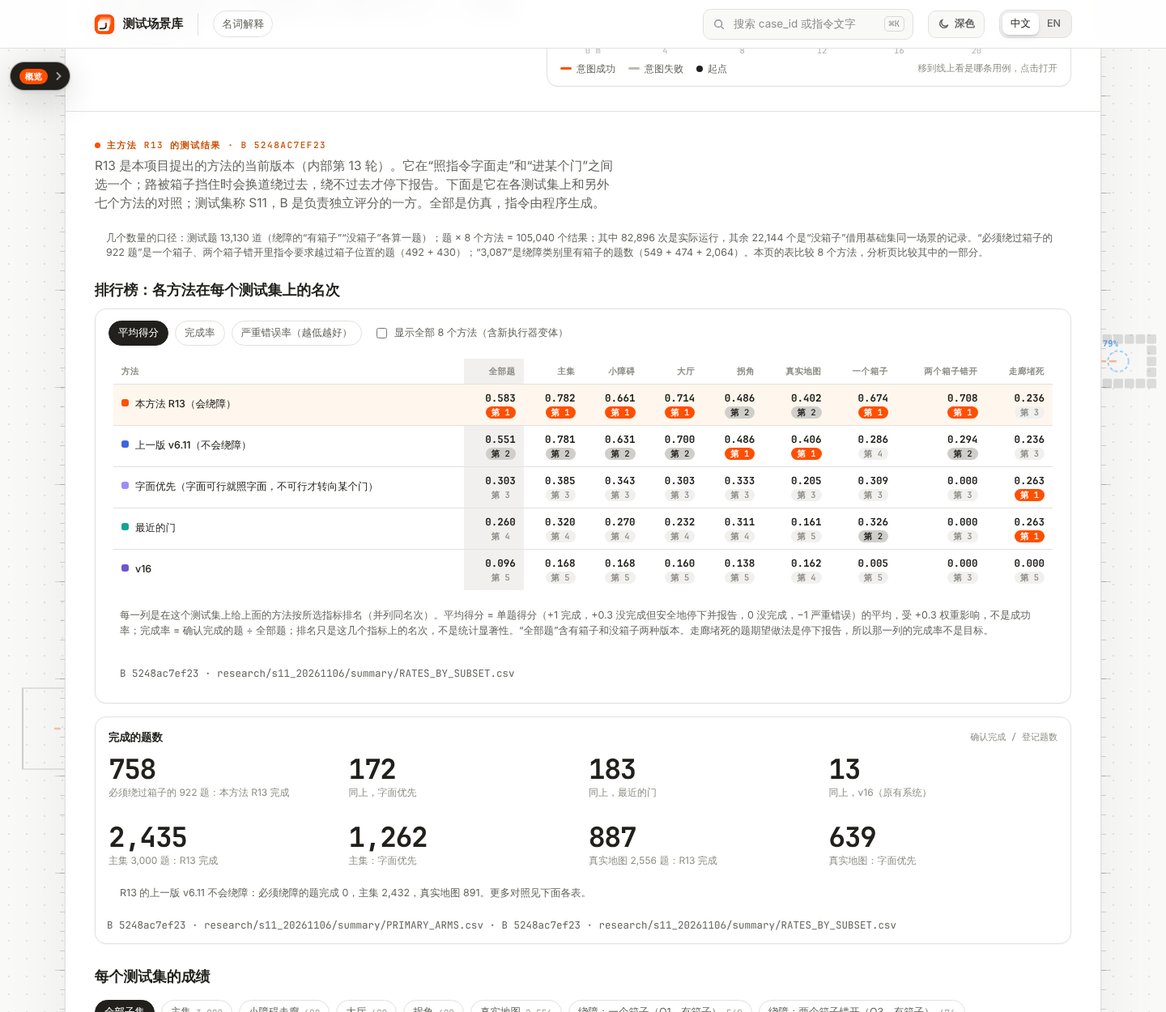
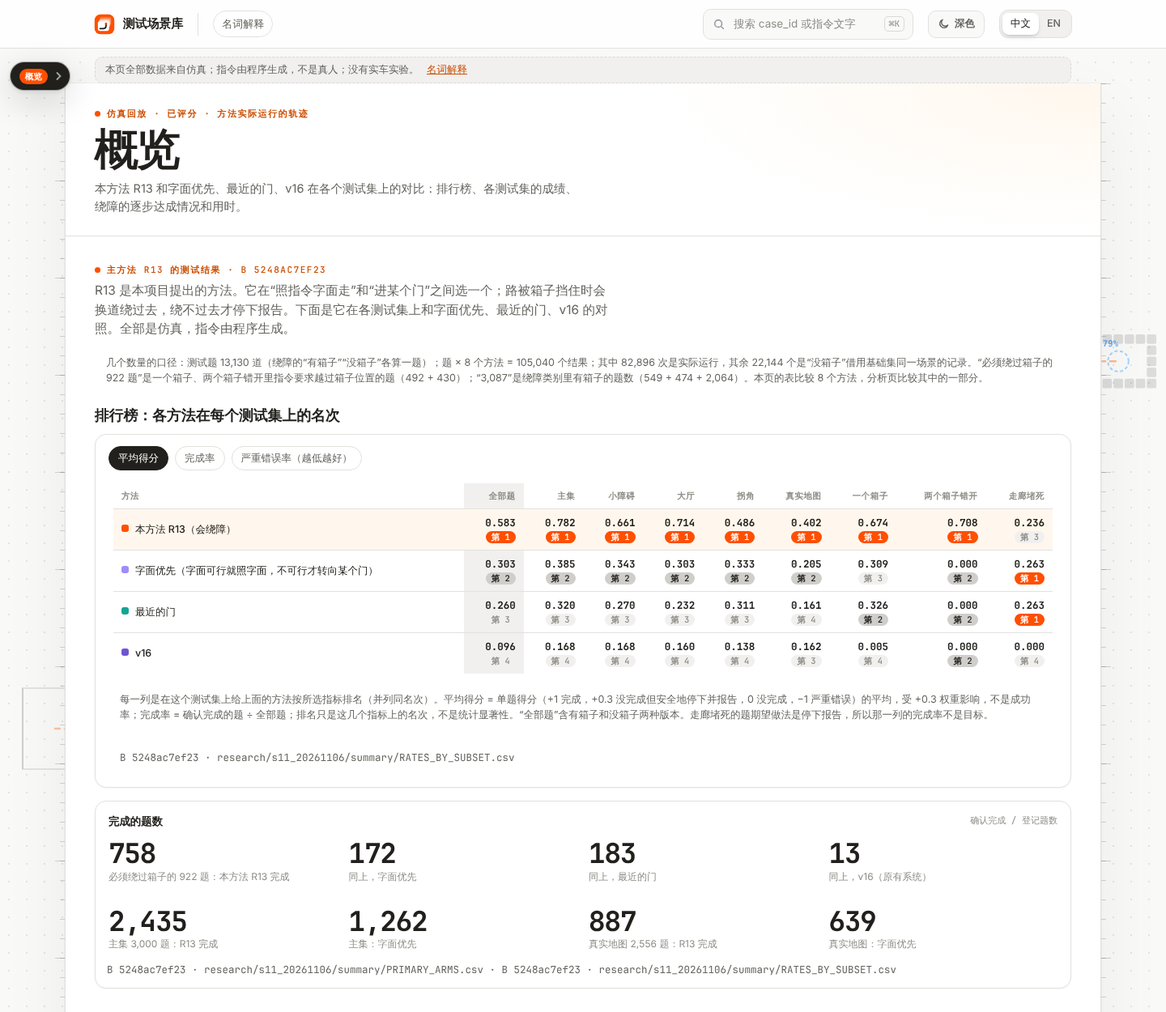
Update site: public view is the main method against the baselines only
Claude-Session: https://claude.ai/code/session_01WXp2ArzCVivbkPhHKuNYSE

diff --git a/assets/app.js b/assets/app.js
@@ -133,6 +133,8 @@ function rasterCanvas(name) { const R = rasters[name]; if (!R) return null; cons
   let i = 0; const a = R.rle; for (let k = 0; k < a.length; k += 2) { const cc = col[a[k]]; for (let n = 0; n < a[k + 1]; n++, i++) { const x = i % R.w, y = R.h - 1 - Math.floor(i / R.w), o = (y * R.w + x) * 4; im.data[o] = cc[0]; im.data[o + 1] = cc[1]; im.data[o + 2] = cc[2]; im.data[o + 3] = 255; } }
   g.putImageData(im, 0, 0); return rCanvas[key] = c; }
 /* sets: web set key -> case filter; sub-filters inside a set */
+const DEV = new URLSearchParams(location.search).get('dev') === '1';   /* ?dev=1 shows the earlier versions and test sets (internal record) */
+const PUB_ARMS = ['method_R13', 'literal_if_feasible', 'nearest', 'v16'];
 const NEW_SETS = ['Y1', 'Y2', 'Y3', 'Y4'];
 const S10_SETS = ['X1', 'X2', 'X3', 'X4'];
 const SCORED_X = [...NEW_SETS, ...S10_SETS];
@@ -160,7 +162,7 @@ function setOfCase(e) { return SETS.find(s => inSet(e, s)); }
 const ARM_GROUPS = [['grpBase', ['v16', 'fixed', 'goal_point', 'nearest', 'snap']], ['grpMe', ['method', 'no_keep', 'no_speed', 'always_slow', 'always_slow_fixed']], ['grpV2', ['method_v2', 'method_v2_k', 'method_v3', 'method_v4']], ['grpV4', ['v4_no_speed', 'v4_no_keep', 'v4_only_nownext', 'v4_only_correction']], ['grpRef', ['oracle', 'oracle_belief', 'oracle_due']]];
 const armsCache = {};
 function armsOf(set) { if (armsCache[set]) return armsCache[set]; const on = new Set(); IDX.forEach(e => { if (inSet(e, set)) for (let i = 0; i < ARMS.length; i++) if ((e.o[i] || ' ') !== ' ') on.add(i); });
-  if (NEW_SETS.includes(set) && window.SL_S11) return armsCache[set] = window.SL_S11.arms.filter(a => on.has(ARMS.indexOf(a)));
+  if (NEW_SETS.includes(set) && window.SL_S11) return armsCache[set] = window.SL_S11.arms.filter(a => on.has(ARMS.indexOf(a)) && (DEV || PUB_ARMS.includes(a)));
   return armsCache[set] = ARMS.filter((a, i) => on.has(i)); }
 function dsLabel(ds) { if (/^V4[OR]:/.test(ds)) { const [h1, b1] = ds.split(':'); return `${t('setS')[h1]} · ${h1 === 'V4O' ? t('fam')[b1] : V4R_SUB[L][b1]}`; } const mp = {'S1″': t('setS').S1PP, 'S2″': t('setS').S2PP}; { const [h0, b0] = ds.split(':'); if (mp[h0]) return b0 ? `${mp[h0]} · ${subLabel(b0)}` : mp[h0]; } const m = {holdout: t('dsHold'), holdout_original: t('dsHO'), holdout_supplement: t('dsHS'), mismatch: t('dsMM'), night_primary: t('dsNP'), night_D_exposed: t('dsND')};
   if (ds === 'holdout') return t('holdout'); if (m[ds]) return `${t('holdout')} · ${m[ds]}`; if (ds.startsWith('S4_')) return `S4 · ${t('fam')[ds.slice(3)]}`; const [a, b] = ds.split(':'); return b ? `${a} · ${subLabel(b)}` : a; }
@@ -257,7 +259,7 @@ function reticle(g, X, Y, e, ans, f, W, H) { const b = targetBox(e, ans); if (!b
 /* ---------------- shell ---------------- */
 const $ = (s, r = document) => r.querySelector(s);
 const esc = s => String(s).replace(/[&<>"]/g, c => ({'&': '&amp;', '<': '&lt;', '>': '&gt;', '"': '&quot;'}[c]));
-const state = {set: SETS.includes(store.get('set4', 'Y4')) ? store.get('set4', 'Y4') : 'Y4', sub: 'all', kind: 'all', arm: 'method_R13', out: 'all', q: '', tr: false, shown: 48, view: 'overlay', on: {method: 1, method_v4: 1, goal_point: 1, nearest: 1, v16: 1}, answer: false, cand: true, ovDs: 'holdout', dot: ['01', 'method']};
+const state = {set: SETS.includes(store.get('set4', 'Y4')) && (DEV || NEW_SETS.includes(store.get('set4', 'Y4'))) ? store.get('set4', 'Y4') : 'Y4', sub: 'all', kind: 'all', arm: 'method_R13', out: 'all', q: '', tr: false, shown: 48, view: 'overlay', on: {method: 1, method_v4: 1, goal_point: 1, nearest: 1, v16: 1}, answer: false, cand: true, ovDs: 'holdout', dot: ['01', 'method']};
 const nSet = (set, f = () => true) => IDX.filter(e => inSet(e, set) && f(e)).length;
 function setsDef() { const M = META.manifest.counts || {}; const fams = ['F0', 'F1', 'F2', 'F3', 'F4', 'F5', 'F6'];
   const xn = ks => ks.reduce((a, k) => a + ((window.SL_S10 && window.SL_S10.datasets[k] || {}).n || 0), 0);
@@ -357,9 +359,10 @@ function render() { cleanup.forEach(f => f()); cleanup = []; const r = route(); 
       <button class="dk-x" id="dkx" title="${L === 'zh' ? '收起（S）' : 'Collapse (S)'}" aria-label="collapse"><svg width="14" height="14" viewBox="0 0 14 14" fill="none" stroke="currentColor" stroke-width="1.8" stroke-linecap="round"><path d="M8.5 3 4.5 7l4 4"/></svg></button>
       <span class="dk-h" aria-hidden="true"><svg width="14" height="14" viewBox="0 0 14 14" fill="currentColor"><rect x="1" y="1" width="5" height="5" rx="1.4"/><rect x="8" y="1" width="5" height="5" rx="1.4"/><rect x="1" y="8" width="5" height="5" rx="1.4"/><rect x="8" y="8" width="5" height="5" rx="1.4" opacity=".45"/></svg><span>${L === 'zh' ? '集合' : 'Sets'}</span><em>${cur ? (cur === 'Y1' ? (L === 'zh' ? '合成' : 'SYN') : cur === 'Y2' ? (L === 'zh' ? '真实' : 'REAL') : cur === 'Y3' ? (L === 'zh' ? '场景' : 'SCN') : cur === 'Y4' ? (L === 'zh' ? '绕障' : 'DETOUR') : cur === 'X1' ? (L === 'zh' ? '合成' : 'SYN') : cur === 'X2' ? (L === 'zh' ? '真实' : 'REAL') : cur === 'X3' ? (L === 'zh' ? '障碍' : 'OBS') : cur === 'X4' ? (L === 'zh' ? '偏移' : 'SHIFT') : cur === 'HOLD' ? 'H' : cur === 'DEV' ? 'D' : cur === 'S1PP' ? (L === 'zh' ? '合成' : 'SYN') : cur === 'S2PP' ? (L === 'zh' ? '真实' : 'REAL') : cur === 'V4O' ? (L === 'zh' ? '障碍' : 'OBS') : cur === 'V4R' ? (L === 'zh' ? '说话' : 'SPCH') : PRIME[cur] || cur) : r.name === 'analysis' ? (L === 'zh' ? '分析' : 'AN') : (L === 'zh' ? '概览' : 'OV')}</em></span>
       <span class="dk-up" aria-hidden="true"><svg width="14" height="14" viewBox="0 0 14 14" fill="none" stroke="currentColor" stroke-width="1.8" stroke-linecap="round"><path d="M5.5 3 9.5 7l-4 4"/></svg></span>`;
+    if (!DEV) { d.querySelectorAll('.oldsel,.dsep').forEach(x => x.remove()); d.querySelectorAll('a[href="#analysis"]').forEach(x => x.remove()); }
     d.querySelectorAll('[data-set]').forEach(b => b.onclick = ev => { ev.stopPropagation(); if (d.classList.contains('fold')) { dock(false, true); return; } setSet(b.dataset.set); });
     $('#dkx').onclick = ev => { ev.stopPropagation(); dock(true, true); };
-    const os = $('#oldSets'); os.onclick = ev => ev.stopPropagation(); os.onchange = ev => { if (ev.target.value) setSet(ev.target.value); };
+    const os = $('#oldSets'); if (os) { os.onclick = ev => ev.stopPropagation(); os.onchange = ev => { if (ev.target.value) setSet(ev.target.value); }; }
     d.onclick = ev => { if (d.classList.contains('fold')) dock(false, true); };
     d.onwheel = ev => { if (Math.abs(ev.deltaX) > Math.abs(ev.deltaY) && Math.abs(ev.deltaX) > 6) { ev.preventDefault(); const now = Date.now(); if (now - (dockState.w || 0) < 400) return; dockState.w = now; dock(ev.deltaX < 0, true); } };
     d.classList.toggle('fold', dockState.mini); }
@@ -396,8 +399,10 @@ function renderGlossary() {
    ['分析页用到的缩写', 'Terms on the Analysis page', 'S1–S6 是更早各轮的测试集（见分析页各章标题）；oracle = 事先知道答案的参考，不是可用的方法，只用来对照上限；门等权 = 每扇门权重相同（先算每扇门的成功率再平均），所以不等于成功数 ÷ 总数；承诺 = 方法已选定要去哪扇门；消融 = 关掉方法的某个部件看结果变化；c = 指令模拟器里距离误差的比例；分析页是开发过程的详细记录，内部缩写较多，建议先看首页和概览。', 'S1–S6 are the test sets of earlier rounds (see the chapter titles on the Analysis page); oracle = a reference that knows the answer in advance, not a usable method, only an upper bound for comparison; door-equal = every door has the same weight (per-door rates are averaged), so it differs from successes ÷ total; commitment = the method has picked which door to go to; ablation = switching one part of the method off to see the change; c = the relative distance error in the command simulator; the Analysis page is a detailed development record with many internal abbreviations, so start with the home page and the Overview.'],
    ['仿真', 'Simulation', '全部结果来自仿真（CPU 闭环，部分为 Isaac 仿真），不是实车；指令由程序生成，回答也由程序模拟，不是真人。', 'All results come from simulation (CPU closed loop, some in Isaac simulation), not a physical robot; commands are program-generated and answers are simulated, not from people.'],
   ];
+  const HIDE = /^(上一版|新执行器|登记检验|测试集 S10|试跑集|分析页用到的缩写)/;
+  const Gs = DEV ? G : G.filter(g => !HIDE.test(g[0])).map(g => g[0] === 'R13' ? ['R13', 'R13', '本项目提出的方法。在“照指令字面走”和“进某个门”之间选一个；路被箱子挡住时会换道绕过去，绕不过去才停下报告。', 'The method proposed in this project. It chooses between following the words of the instruction and entering an opening; when a box blocks the way it changes lane around it, and only when it cannot get around does it stop and report.'] : g);
   $('#page').innerHTML = `<section class="shead"><div class="sh-l"><div class="eyebrow"><span class="dot"></span>${L === 'zh' ? '读这个网站先看这里' : 'Read this first'}</div><h1 class="h">${L === 'zh' ? '名词解释' : 'Glossary'}</h1><p class="lede">${L === 'zh' ? '页面里用到的内部叫法和数字口径。' : 'Internal names and number conventions used on the pages.'}</p></div></section>
-   <div class="glo">${G.map(g => `<div class="gi"><dt>${esc(L === 'zh' ? g[0] : g[1])}</dt><dd>${esc(L === 'zh' ? g[2] : g[3])}</dd></div>`).join('')}</div>`;
+   <div class="glo">${Gs.map(g => `<div class="gi"><dt>${esc(L === 'zh' ? g[0] : g[1])}</dt><dd>${esc(L === 'zh' ? g[2] : g[3])}</dd></div>`).join('')}</div>`;
 }
 
 /* ---------------- list ---------------- */
@@ -532,7 +537,7 @@ function badgeHTML(e) { const ch = e.o[ARMS.indexOf(state.arm)] || ' ';
   if (e.s10) { const b = xmod(e).badge(e._c.a[state.arm]); return `<span class="ob sc10" style="background:${b.c};color:${b.fg}" title="${t('arm')[state.arm]}">${ch === ' ' ? t('noRun') : b.t}</span>`; }
   const [c, l] = ch === '1' ? ['ok', '✓ ' + t('succ')] : ch === '0' ? ['bad', '✗ ' + t('fail')] : ch === '?' ? ['un', '? ' + t('unknown')] : ch === '-' ? ['un', t('na')] : ['no', t('noRun')];
   return `<span class="ob ${c}" title="${t('arm')[state.arm]}">${l}</span>`; }
-function stripHTML(e) { if (e.s10) { const S = xmod(e); return ARMS.map((a, i) => { const q = e._c.a[a]; if (!q) return ''; const b = S.badge(q); return `<span class="${a === state.arm ? 'sel' : ''}" style="--c:${ARMC[a]};background:${b.c};border-color:${b.c}" title="${t('arm')[a]}: ${b.t}"></span>`; }).join(''); } const shown = armsOf(setOfCase(e)); return ARMS.map((a, i) => { if (!shown.includes(a)) return ''; const ch = e.o[i] || ' '; const cls = ch === '1' ? 'ok' : ch === '0' ? '' : ch === '-' ? 'na' : ch === '?' ? 'un' : 'no'; const lab = ch === '1' ? t('succ') : ch === '0' ? t('fail') : ch === '-' ? t('na') : ch === '?' ? t('unknown') : t('noRun');
+function stripHTML(e) { if (e.s10) { const S = xmod(e); return ARMS.map((a, i) => { const q = e._c.a[a]; if (!q || (e.s11 && !DEV && !PUB_ARMS.includes(a))) return ''; const b = S.badge(q); return `<span class="${a === state.arm ? 'sel' : ''}" style="--c:${ARMC[a]};background:${b.c};border-color:${b.c}" title="${t('arm')[a]}: ${b.t}"></span>`; }).join(''); } const shown = armsOf(setOfCase(e)); return ARMS.map((a, i) => { if (!shown.includes(a)) return ''; const ch = e.o[i] || ' '; const cls = ch === '1' ? 'ok' : ch === '0' ? '' : ch === '-' ? 'na' : ch === '?' ? 'un' : 'no'; const lab = ch === '1' ? t('succ') : ch === '0' ? t('fail') : ch === '-' ? t('na') : ch === '?' ? t('unknown') : t('noRun');
   return `<span class="${cls} ${a === state.arm ? 'sel' : ''}" style="--c:${ARMC[a]}" title="${t('arm')[a]}: ${lab}"></span>`; }).join(''); }
 function caseTag(e) { if (e.s10) return e.g ? X_SUB[L][e.g] : ''; return e.d === 'HO' ? t('orig') : e.d === 'HS' ? t('supp') : e.d === 'S1D' ? t('devS1') : e.d === 'S4D' ? `${t('devS4')} ${e.f}` : e.d === 'S2' ? `S2 ${t('bd')[e.bd]}` : e.d === 'S3' ? `S3 c=${e.c}` : e.d === 'S4' ? `S4 ${e.f}` : e.d === 'V4O' ? t('fam')[e.f] : e.d === 'V4R' ? V4R_SUB[L][e.g] : MAIN_SETS.includes(e.d) ? (e.bd ? t('bd')[e.bd] : '') : PRIME[e.d] ? PRIME[e.d] + (e.bd ? ' ' + t('bd')[e.bd] : '') : e.d; }
 function cardHTML(e) {
@@ -660,7 +665,7 @@ function mountCase(e, det) {
   // side panel
   const yn = (v, na) => na ? `<span class="v u">—</span>` : v === true ? '<span class="v y">✓</span>' : v === false ? '<span class="v n">✗</span>' : '<span class="v u">?</span>';
   const have = armsOf(setOfCase(e)).filter(a => det.arms[a]);
-  const L_VS = ' · '; const presets = e.s11 ? [[t('arm').method_R13 + L_VS + t('arm').literal_if_feasible + ' + ' + t('arm').nearest, ['method_R13', 'literal_if_feasible', 'nearest']], [`${t('arm').method_R13} · ${t('arm').v16}`, ['method_R13', 'v16']], [`${t('arm').method_R13} · ${t('arm').method_v6}`, ['method_R13', 'method_v6']], [t('preAll'), arms], [t('preNone'), []]] : e.s10 ? [[`${t('arm').method_v6} · ${t('arm').literal_if_feasible}`, ['method_v6', 'literal_if_feasible']], [`${t('arm').method_v6} · ${t('arm').method_v4}`, ['method_v6', 'method_v4']], [`${t('arm').method_v6} · ${t('arm').nearest}`, ['method_v6', 'nearest']], [t('preAll'), arms], [t('preNone'), []]] : [[`${t('arm').method} · ${t('arm').nearest}`, ['method', 'nearest']], [`${t('arm').method} · v16`, ['method', 'v16']], [`${t('arm').method} · v2`, ['method', 'method_v2']], [`${t('arm').method} · ${t('arm').oracle_belief}`, ['method', 'oracle_belief']], [t('preAll'), have], [t('preNone'), []]];
+  const L_VS = ' · '; const presets = e.s11 ? [[t('arm').method_R13 + L_VS + t('arm').literal_if_feasible + ' + ' + t('arm').nearest, ['method_R13', 'literal_if_feasible', 'nearest']], [`${t('arm').method_R13} · ${t('arm').v16}`, ['method_R13', 'v16']], ...(DEV ? [[`${t('arm').method_R13} · ${t('arm').method_v6}`, ['method_R13', 'method_v6']]] : []), [t('preAll'), arms], [t('preNone'), []]] : e.s10 ? [[`${t('arm').method_v6} · ${t('arm').literal_if_feasible}`, ['method_v6', 'literal_if_feasible']], [`${t('arm').method_v6} · ${t('arm').method_v4}`, ['method_v6', 'method_v4']], [`${t('arm').method_v6} · ${t('arm').nearest}`, ['method_v6', 'nearest']], [t('preAll'), arms], [t('preNone'), []]] : [[`${t('arm').method} · ${t('arm').nearest}`, ['method', 'nearest']], [`${t('arm').method} · v16`, ['method', 'v16']], [`${t('arm').method} · v2`, ['method', 'method_v2']], [`${t('arm').method} · ${t('arm').oracle_belief}`, ['method', 'oracle_belief']], [t('preAll'), have], [t('preNone'), []]];
   const MA = mainArm(setOfCase(e)), cds = caseDs(e), rr = cds ? ARMS.map(a => [a, rate(cds, e.k, a)]).filter(x => x[1]) : [];
   if (e.s10) $('#side').innerHTML = xmod(e).side(e, det, presets); else $('#side').innerHTML = `<section class="card"><div class="card-h"><span class="tile">≡</span><h3>${t('arms')}</h3><span class="more"></span></div>
    <div class="armh"><span></span><span>${t('arms')}</span><span>${t('hI')}</span><span>${t('hL')}</span><span>${t('hC')}</span><span>${t('hT')}</span></div>
@@ -689,6 +694,10 @@ function renderOverview() {
   const countRows = [['HO', e => e.d === 'HO'], ['HS', e => e.d === 'HS'], ['S1', e => e.d === 'S1'], ['S2 · ' + t('bd').hospital, e => e.d === 'S2' && e.bd === 'hospital'], ['S2 · ' + t('bd').office, e => e.d === 'S2' && e.bd === 'office'],
     ...subOpts('S3').map(c => ['S3 · ' + c, e => e.d === 'S3' && 'c=' + e.c === c]), ...subOpts('S4').map(f => ['S4 · ' + t('fam')[f], e => e.d === 'S4' && e.f === f]), ['S1′', e => e.d === 'S1P'], ['S2′ · ' + t('bd').hospital, e => e.d === 'S2P' && e.bd === 'hospital'], ['S2′ · ' + t('bd').office, e => e.d === 'S2P' && e.bd === 'office'], ['S1″', e => e.d === 'S1PP'], ['S2″ · ' + t('bd').hospital, e => e.d === 'S2PP' && e.bd === 'hospital'], ['S2″ · ' + t('bd').office, e => e.d === 'S2PP' && e.bd === 'office'], ['S1D', e => e.d === 'S1D'], ['S4D', e => e.d === 'S4D']]
     .map(([l, f]) => [l === 'HO' ? `${t('holdout')} · ${t('orig')}` : l === 'HS' ? `${t('holdout')} · ${t('supp')}` : l === 'S1D' ? t('devS1') : l === 'S4D' ? t('devS4') : l, IDX.filter(f)]);
+  if (!DEV && window.SLX && window.SLX.s11) {
+    $('#page').innerHTML = `<section class="shead"><div class="sh-l"><div class="eyebrow"><span class="dot"></span>${t('eyebrowList')}</div><h1 class="h">${t('ovTitle')}</h1><p class="lede">${L === 'zh' ? '本方法 R13 和字面优先、最近的门、v16 在各个测试集上的对比：排行榜、各测试集的成绩、绕障的逐步达成情况和用时。' : 'The main method R13 compared with literal-first, nearest opening and v16 on every test set: leaderboard, scores per test set, step-by-step detour results and time.'}</p></div></section>${window.SLX.s11.dataHTML()}`;
+    window.SLX.s11.bindData($('#page')); return;
+  }
   const kinds = KINDS.filter(k => IDX.some(e => e.k === k));
   $('#page').innerHTML = `<section class="hero"><div><div class="eyebrow"><span class="dot"></span>${t('eyebrowList')}</div><h1 class="h">${t('ovTitle')}</h1>
    <div class="lede" style="font-size:19px;color:var(--ink);margin-top:16px;line-height:1.7">${t('heroA')(kinds.length)} · ${t('heroB')(ARMS.length)} · ${fmt(IDX.length)} ${t('stCases')}</div><p class="lede">${t('ovLede')}</p></div>
@@ -794,7 +803,7 @@ function s10Text(c) { const u = c.u, side = u.direction === 'left' ? (L === 'zh'
     case 'correction': return L === 'zh' ? `${u.initial_description === 'this opening' ? '先指这个开口' : u.initial_description}，然后说：${u.correction_text}` : `First ${u.initial_description}, then: ${u.correction_text}`;
     case 'stop_at_opening': return L === 'zh' ? `在${side}侧第${u.ordinal}个开口停车` : `Stop at opening no. ${u.ordinal} on the ${side}`;
     default: return u.reference; } }
-window.SLX = {IDX, byId, ARMS, state, raster, rasterReady: n => !!rasters[n], resetArms: () => { for (const k in armsCache) delete armsCache[k]; }, $, esc, fmt, t, store, get ARMC() { return ARMC; }, drawMap, topbar, trajDecode, s10Text, armName: a => (T[L].arm || {})[a] || a, rerender: () => render()};
+window.SLX = {dev: DEV, pubArms: PUB_ARMS, IDX, byId, ARMS, state, raster, rasterReady: n => !!rasters[n], resetArms: () => { for (const k in armsCache) delete armsCache[k]; }, $, esc, fmt, t, store, get ARMC() { return ARMC; }, drawMap, topbar, trajDecode, s10Text, armName: a => (T[L].arm || {})[a] || a, rerender: () => render()};
 
 /* ---------------- boot ---------------- */
 document.documentElement.lang = L === 'zh' ? 'zh-CN' : 'en';

diff --git a/assets/s11.js b/assets/s11.js
@@ -13,7 +13,8 @@ const pct = (v, d = 1) => v == null ? '—' : (100 * v).toFixed(d) + '%';
 const pp = (v, d = 2) => v == null ? '—' : (v >= 0 ? '+' : '') + (100 * v).toFixed(d);
 const f3 = v => v == null ? '—' : v.toFixed(3);
 const armName = a => (X.armName ? X.armName(a) : a);
-const ARMS = S.arms;
+const DEV = !!X.dev;
+const ARMS = DEV ? S.arms : S.arms.filter(a => X.pubArms.includes(a));
 const rate = (scope, arm) => S.rates.find(r => r.scope === scope && r.arm === arm);
 const utilColor = u10 => u10 == null ? 'var(--sand7)' : u10 >= 10 ? '#12A594' : u10 >= 3 ? '#F5AE73' : u10 === 0 ? 'var(--sand7)' : '#E5484D';
 const utilText = u10 => u10 == null ? '?' : u10 >= 10 ? '+1' : u10 === 3 ? '+0.3' : u10 === 0 ? '0' : u10 <= -10 ? '−1' : (u10 / 10).toFixed(1);
@@ -71,7 +72,7 @@ function det(e) {
   const c = e._c;
   return Promise.all([c.t && c.ch ? loadTraj(c.ch) : {}, e.m.img ? X.raster(e.m.img) : null]).then(([chunk]) => {
     const ent = chunk[c.tk || e.id] || {}, tr = ent.tr || {}, t0 = ent.t0 || {}, arms = {};
-    for (const a in c.a) { const q = c.a[a]; if (!q) continue;
+    for (const a in c.a) { const q = c.a[a]; if (!q || (!DEV && !X.pubArms.includes(a))) continue;
       arms[a] = {i: q[1] == null ? null : q[1] >= 10, l: null, c: null, na: false, rs: q[0], fs: q[6] || '', t: q[7], t0: t0[a] != null ? t0[a] : null, tr: tr[a] || null, s11: q}; }
     return e._det = {answers: {}, cand: null, arms, _tr: 1};
   });
@@ -182,7 +183,7 @@ function funnelHTML() {
 let tmScope = 'ALL_LOGICAL';
 function timesHTML() {
   const scopes = [['ALL_LOGICAL', T('全部', 'All')], ['S11_MAIN_SYNTH', T('主集', 'Main set')], ['S11_REAL', T('真实地图', 'Real maps')], ['S11_CLUTTER', T('小障碍', 'Small obstacles')], ['S11_DIVERSITY_F1', T('大厅', 'Hall')], ['S11_DIVERSITY_F2', T('拐角', 'Corner')]];
-  const pairs = [['literal_if_feasible', T('R13 对 字面优先', 'R13 vs literal-first')], ['method_v6', T('R13 对 上一版 v6.11', 'R13 vs previous version v6.11')]];
+  const pairs = [['literal_if_feasible', T('R13 对 字面优先', 'R13 vs literal-first')]].concat(DEV ? [['method_v6', T('R13 对 上一版 v6.11', 'R13 vs previous version v6.11')]] : []);
   const rows = [];
   for (const [r, lab] of pairs) for (const cls of ['literal', 'structure']) { const t = S.times.find(x => x.scope === tmScope && x.left === 'method_R13' && x.right === r && x.time_class === cls); if (t) rows.push([lab, cls, t]); }
   const s = v => v == null ? '—' : v.toFixed(2);
@@ -235,7 +236,7 @@ function coverageHTML() {
 const RK = {metric: 'mean', all: false};
 const RK_SCOPES = [['ALL_LOGICAL', '全部题', 'All cases'], ['S11_MAIN_SYNTH', '主集', 'Main set'], ['S11_CLUTTER', '小障碍', 'Small obstacles'], ['S11_DIVERSITY_F1', '大厅', 'Hall'], ['S11_DIVERSITY_F2', '拐角', 'Corner'],
   ['S11_REAL', '真实地图', 'Real maps'], ['S11_OBS_O1_BLOCK', '一个箱子', 'One box'], ['S11_OBS_O3_BLOCK', '两个箱子错开', 'Two staggered boxes'], ['S11_OBS_O4_BLOCK', '走廊堵死', 'Corridor blocked']];
-const RK_CORE = ['method_R13', 'literal_if_feasible', 'nearest', 'v16', 'method_v6'];
+const RK_CORE = ['method_R13', 'literal_if_feasible', 'nearest', 'v16'].concat(DEV ? ['method_v6'] : []);
 const rkVal = (r, m) => !r ? null : m === 'mean' ? r.mean_utility : m === 'comp' ? r.confirmed_completed / r.n : r.severe / r.severe_known;
 const rkFmt = (v, m) => v == null ? '—' : m === 'mean' ? v.toFixed(3) : (100 * v).toFixed(1) + '%';
 function rankHTML(compact) {
@@ -250,7 +251,7 @@ function rankHTML(compact) {
   const mt = [['mean', T('平均得分', 'Mean score')], ['comp', T('完成率', 'Completion rate')], ['sev', T('严重错误率（越低越好）', 'Severe-error rate (lower is better)')]];
   const scopes = compact ? RK_SCOPES.slice(0, 1).concat(RK_SCOPES.slice(1)) : RK_SCOPES;
   return `<div class="rkbar"><nav class="atoc s10nav rkm">${mt.map(([k, l]) => `<a class="${RK.metric === k ? 'on' : ''}" data-m="${k}">${l}</a>`).join('')}</nav>
-    <label class="rkall"><input type="checkbox" class="rkchk" ${RK.all ? 'checked' : ''}> ${T('显示全部 8 个方法（含新执行器变体）', 'Show all 8 methods (including the new-executor variants)')}</label></div>
+    ${DEV ? `<label class="rkall"><input type="checkbox" class="rkchk" ${RK.all ? 'checked' : ''}> ${T('显示全部 8 个方法（含新执行器变体）', 'Show all 8 methods (including the new-executor variants)')}</label>` : ''}</div>
     <div class="tbl"><table class="t s10t rkt"><thead><tr><th>${T('方法', 'Method')}</th>${scopes.map(([k, zh, en], i) => `<th class="${i === 0 ? 'all' : ''}">${T(zh, en)}</th>`).join('')}</tr></thead><tbody>
     ${order.map(a => `<tr class="${a === 'method_R13' ? 'me' : ''}"><td class="nm"><span class="sw" style="background:${ARMC[a] || 'var(--sand8)'}"></span>${esc(armName(a))}</td>
       ${scopes.map(([sc], i) => { const r = rate(sc, a), v = rkVal(r, m), k = rank[sc + a]; return `<td class="c ${i === 0 ? 'all' : ''}"><b>${rkFmt(v, m)}</b><span class="rk r${k}">${k ? T('第 ' + k, '#' + k) : ''}</span></td>`; }).join('')}</tr>`).join('')}
@@ -268,23 +269,23 @@ function dataHTML() {
   const mr = rate('S11_MAIN_SYNTH', 'method_R13'), mv = rate('S11_MAIN_SYNTH', 'method_v6'), ml = rate('S11_MAIN_SYNTH', 'literal_if_feasible'), rr = rate('S11_REAL', 'method_R13'), rv = rate('S11_REAL', 'method_v6'), rl = rate('S11_REAL', 'literal_if_feasible');
   const hero = (lab, a, b2, c, d) => `<div><b>${a}</b><span>${lab}</span></div>`;
   return `<section class="s10data" id="s11data"><div class="eyebrow" style="margin-top:34px"><span class="dot"></span>${T('主方法 R13 的测试结果', 'Results of the main method R13')} · B ${esc(S.b.slice(0, 11))}</div>
-    <p class="lede" style="margin:6px 0 12px">${T('R13 是本项目提出的方法的当前版本（内部第 13 轮）。它在“照指令字面走”和“进某个门”之间选一个；路被箱子挡住时会换道绕过去，绕不过去才停下报告。下面是它在各测试集上和另外七个方法的对照；测试集称 S11，B 是负责独立评分的一方。全部是仿真，指令由程序生成。', 'R13 is the current version (internal iteration 13) of the method proposed in this project. It chooses between following the words of the instruction and entering an opening; when a box blocks the way it changes lane around it, and only when it cannot get around does it stop and report. Below it is compared with seven other methods on every test set (called S11; B is the party that scores independently). Everything is simulated, and commands are program-generated.')}</p>
+    <p class="lede" style="margin:6px 0 12px">${T('R13 是本项目提出的方法。它在“照指令字面走”和“进某个门”之间选一个；路被箱子挡住时会换道绕过去，绕不过去才停下报告。下面是它在各测试集上和字面优先、最近的门、v16 的对照。全部是仿真，指令由程序生成。', 'R13 is the method proposed in this project. It chooses between following the words of the instruction and entering an opening; when a box blocks the way it changes lane around it, and only when it cannot get around does it stop and report. Below it is compared with literal-first, nearest opening and v16 on every test set. Everything is simulated, and commands are program-generated.')}</p>
     <p class="note" style="margin:0 0 10px">${T('几个数量的口径：测试题 13,130 道（绕障的“有箱子”“没箱子”各算一题）；题 × 8 个方法 = 105,040 个结果；其中 82,896 次是实际运行，其余 22,144 个是“没箱子”借用基础集同一场景的记录。“必须绕过箱子的 922 题”是一个箱子、两个箱子错开里指令要求越过箱子位置的题（492 + 430）；“3,087”是绕障类别里有箱子的题数（549 + 474 + 2,064）。本页的表比较 8 个方法，分析页比较其中的一部分。', 'What the counts mean: 13,130 test cases (the with-box and no-box versions of a detour case count separately); cases × 8 methods = 105,040 results, of which 82,896 are actual runs and the other 22,144 are no-box results that reuse the record of the same base-set scene. “The 922 cases that require a detour” are those in the one-box and two-staggered-box sets whose instruction requires passing the box position (492 + 430); “3,087” is the number of with-box cases in the detour category (549 + 474 + 2,064). The tables on this page compare 8 methods; the analysis page compares some of them.')}</p>
     <h3 class="s10h3" style="margin-top:8px">${T('排行榜：各方法在每个测试集上的名次', 'Leaderboard: rank of every method on every test set')}</h3><div id="rankov" class="card" style="padding:14px 16px"></div>
     <div class="agrid s10grid"><article class="card s10hero"><div class="card-h"><h3>${T('完成的题数', 'Completed cases')}</h3><span class="more">${T('确认完成 / 登记题数', 'confirmed / registered')}</span></div>
       <div class="big2"><div><b>${fmt(P.confirmed_completed)}</b><span>${T('必须绕过箱子的 922 题：本方法 R13 完成', 'The 922 cases that require a detour: completed by R13')}</span></div><div><b>${fmt(PL.confirmed_completed)}</b><span>${T('同上，字面优先', 'same, literal-first')}</span></div>
       <div><b>${fmt(PN.confirmed_completed)}</b><span>${T('同上，最近的门', 'same, nearest opening')}</span></div><div><b>${fmt(PV16.confirmed_completed)}</b><span>${T('同上，v16（原有系统）', 'same, v16 (original system)')}</span></div></div>
       <div class="big2" style="margin-top:12px"><div><b>${fmt(mr.confirmed_completed)}</b><span>${T('主集 3,000 题：R13 完成', 'Main set (3,000): R13 completed')}</span></div><div><b>${fmt(ml.confirmed_completed)}</b><span>${T('主集：字面优先', 'Main set: literal-first')}</span></div><div><b>${fmt(rr.confirmed_completed)}</b><span>${T('真实地图 2,556 题：R13 完成', 'Real maps (2,556): R13 completed')}</span></div><div><b>${fmt(rl.confirmed_completed)}</b><span>${T('真实地图：字面优先', 'Real maps: literal-first')}</span></div></div>
-      <p class="note" style="margin:8px 16px 0">${T('R13 的上一版 v6.11 不会绕障：必须绕障的题完成 ' + fmt(PV.confirmed_completed) + '，主集 ' + fmt(mv.confirmed_completed) + '，真实地图 ' + fmt(rv.confirmed_completed) + '。更多对照见下面各表。', 'R13’s previous version v6.11 cannot go around obstacles: ' + fmt(PV.confirmed_completed) + ' completions on the detour cases, ' + fmt(mv.confirmed_completed) + ' on the main set, ' + fmt(rv.confirmed_completed) + ' on the real maps. More comparisons are in the tables below.')}</p>
+      ${DEV ? `<p class="note" style="margin:8px 16px 0">${T('R13 的上一版 v6.11 不会绕障：必须绕障的题完成 ' + fmt(PV.confirmed_completed) + '，主集 ' + fmt(mv.confirmed_completed) + '，真实地图 ' + fmt(rv.confirmed_completed) + '。更多对照见下面各表。', 'R13’s previous version v6.11 cannot go around obstacles: ' + fmt(PV.confirmed_completed) + ' completions on the detour cases, ' + fmt(mv.confirmed_completed) + ' on the main set, ' + fmt(rv.confirmed_completed) + ' on the real maps. More comparisons are in the tables below.')}</p>` : ''}
       <div class="note src">${esc(S.sources.primary)} · ${esc(S.sources.rates)}</div></article></div>
     <h3 class="s10h3">${T('每个测试集的成绩', 'Scores per test set')}</h3>${b.chips}<div class="agrid s10grid s11grid" style="margin-top:14px">${b.boards}</div></section>
     <section class="s10data" style="margin-top:34px"><h3 class="s10h3">${T('绕障逐步达成（漏斗）', 'Obstacle detour, step by step (funnel)')}</h3><p class="note" style="margin:0 0 6px">${T('到达箱子的位置 → 无接触地绕过 → 回到原路线 → 完成，八个方法。每一格是“满足的题数 / 判得出的题数”，后一步要先满足前一步。', 'Reached the box position → passed it without contact → back on the original path → completed, eight methods. Each cell is “satisfied / decided”, and each step needs the one before it.')}</p><div id="fnbox">${funnelHTML()}</div></section>
-    <section class="s10data" style="margin-top:34px"><h3 class="s10h3">${T('作者自定的四项检查（登记检验）', 'Four author-defined checks (registered tests)')}</h3>${gatesTable()}</section>
-    <section class="s10data" style="margin-top:34px"><h3 class="s10h3">${T('R13 的严重错误出在哪里', 'Where R13’s severe errors are')}</h3>${severeHTML()}</section>
+    ${DEV ? `<section class="s10data" style="margin-top:34px"><h3 class="s10h3">${T('作者自定的四项检查（登记检验）', 'Four author-defined checks (registered tests)')}</h3>${gatesTable()}</section>
+    <section class="s10data" style="margin-top:34px"><h3 class="s10h3">${T('R13 的严重错误出在哪里', 'Where R13’s severe errors are')}</h3>${severeHTML()}</section>` : ''}
     <section class="s10data" style="margin-top:34px"><h3 class="s10h3">${T('有箱子 − 没箱子（R13）', 'With box − no box (R13)')}</h3>${blockClearHTML()}</section>
     <section class="s10data" style="margin-top:34px"><h3 class="s10h3">${T('同一题上的用时对比', 'Time on the same case')}</h3><div id="tmbox">${timesHTML()}</div></section>
     <section class="s10data" style="margin-top:34px"><h3 class="s10h3">${T('各子集：R13 − 字面优先', 'Per subset: R13 − literal-first')}</h3>${diffHTML()}</section>
-    <section class="s10data" style="margin-top:34px"><h3 class="s10h3">${T('轨迹覆盖', 'Trajectory coverage')}</h3>${coverageHTML()}</section>`;
+    ${DEV ? `<section class="s10data" style="margin-top:34px"><h3 class="s10h3">${T('轨迹覆盖', 'Trajectory coverage')}</h3>${coverageHTML()}</section>` : ''}`;
 }
 function bindData(root) {
   mountRank(root.querySelector('#rankov'));

diff --git a/README.md b/README.md
@@ -87,3 +87,7 @@ node tools/screenshots.js              # 可选：更新 screenshots/
 ## 排行榜（2026-11-08）
 
 首页（绕障）和概览顶部各有一张“排行榜”：本方法 R13 和字面优先、最近的门、v16、上一版 v6.11 在每个测试集上按平均得分 / 完成率 / 严重错误率排名（可勾选显示全部 8 个方法）。数值取自 B 的 `RATES_BY_SUBSET.csv`（平均得分由页面构建时对逐题得分求平均）；名次并列同名次，全相同的列不标名次；排名不是统计显著性。
+
+## 对外展示与内部记录（2026-11-08）
+
+对外只展示本方法 R13 和别的方法（字面优先、最近的门、v16）的对比：左侧导航只有四类测试集和“概览”，排行榜、各表、详情页默认只含这四个方法；以前版本（v6.11、v4、v5、初版至第三版、新执行器变体、消融）、早期测试集、S10、分析页和四项登记检验都不显示。网址后面加 `?dev=1` 可以看到全部内部记录（数据文件都还在）。
